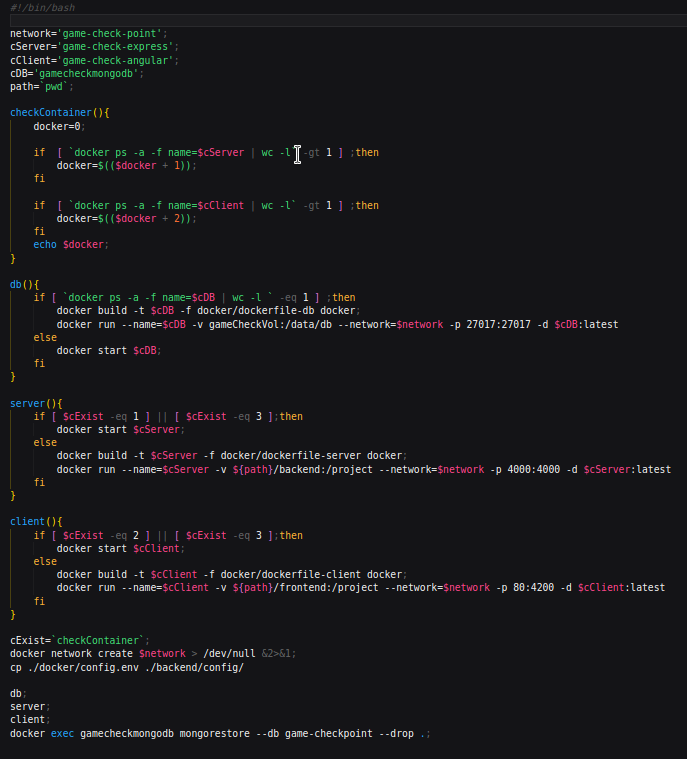
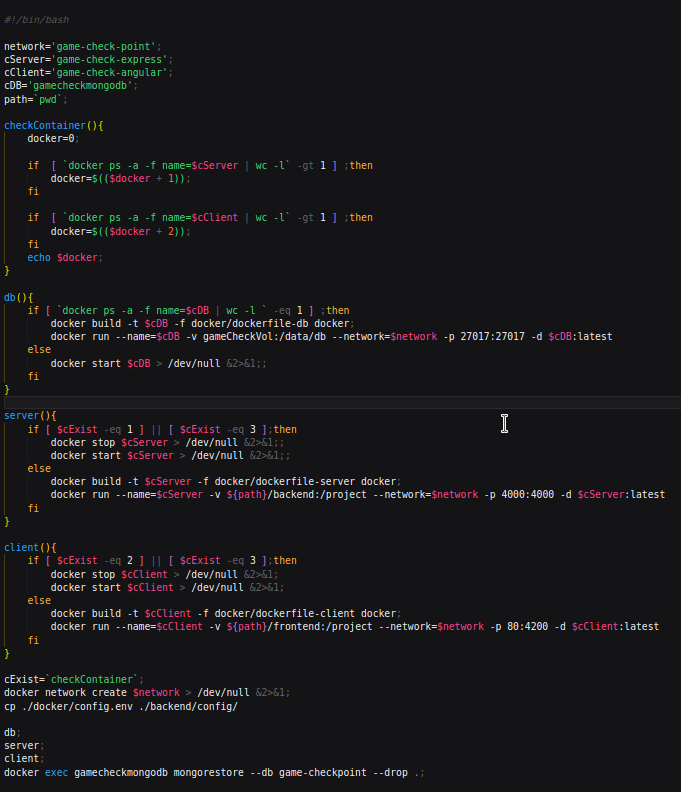
Tarea Acabada

diff --git a/README.md b/README.md
@@ -102,6 +102,8 @@ git commit -m "Preparando la Carpeta";
 ```sh
 #!/bin/bash
 
+#!/bin/bash
+
 network='game-check-point';
 cServer='game-check-express';
 cClient='game-check-angular';
@@ -126,13 +128,14 @@ db(){
         docker build -t $cDB -f docker/dockerfile-db docker;
         docker run --name=$cDB -v gameCheckVol:/data/db --network=$network -p 27017:27017 -d $cDB:latest
     else
-        docker start $cDB;
+        docker start $cDB > /dev/null &2>&1;;
     fi
 }
 
 server(){
     if [ $cExist -eq 1 ] || [ $cExist -eq 3 ];then
-        docker start $cServer;
+        docker stop $cServer > /dev/null &2>&1;;
+        docker start $cServer > /dev/null &2>&1;;
     else
         docker build -t $cServer -f docker/dockerfile-server docker;
         docker run --name=$cServer -v ${path}/backend:/project --network=$network -p 4000:4000 -d $cServer:latest
@@ -141,7 +144,8 @@ server(){
 
 client(){
     if [ $cExist -eq 2 ] || [ $cExist -eq 3 ];then
-        docker start $cClient;
+        docker stop $cClient > /dev/null &2>&1;
+        docker start $cClient > /dev/null &2>&1;
     else
         docker build -t $cClient -f docker/dockerfile-client docker;
         docker run --name=$cClient -v ${path}/frontend:/project --network=$network -p 80:4200 -d $cClient:latest
@@ -230,6 +234,7 @@ git push origin main_dockerfile;
 >![ScreenShot](filesREADME/13.png)
 ```bash
 git clone https://github.com/JDiezGarcia/Game-Checkpoint_Angular-Express.git .;
+git checkout main_dockerfile;
 chmod +x docker_creation.sh;
 bash .docker_creation.sh;
 ```
